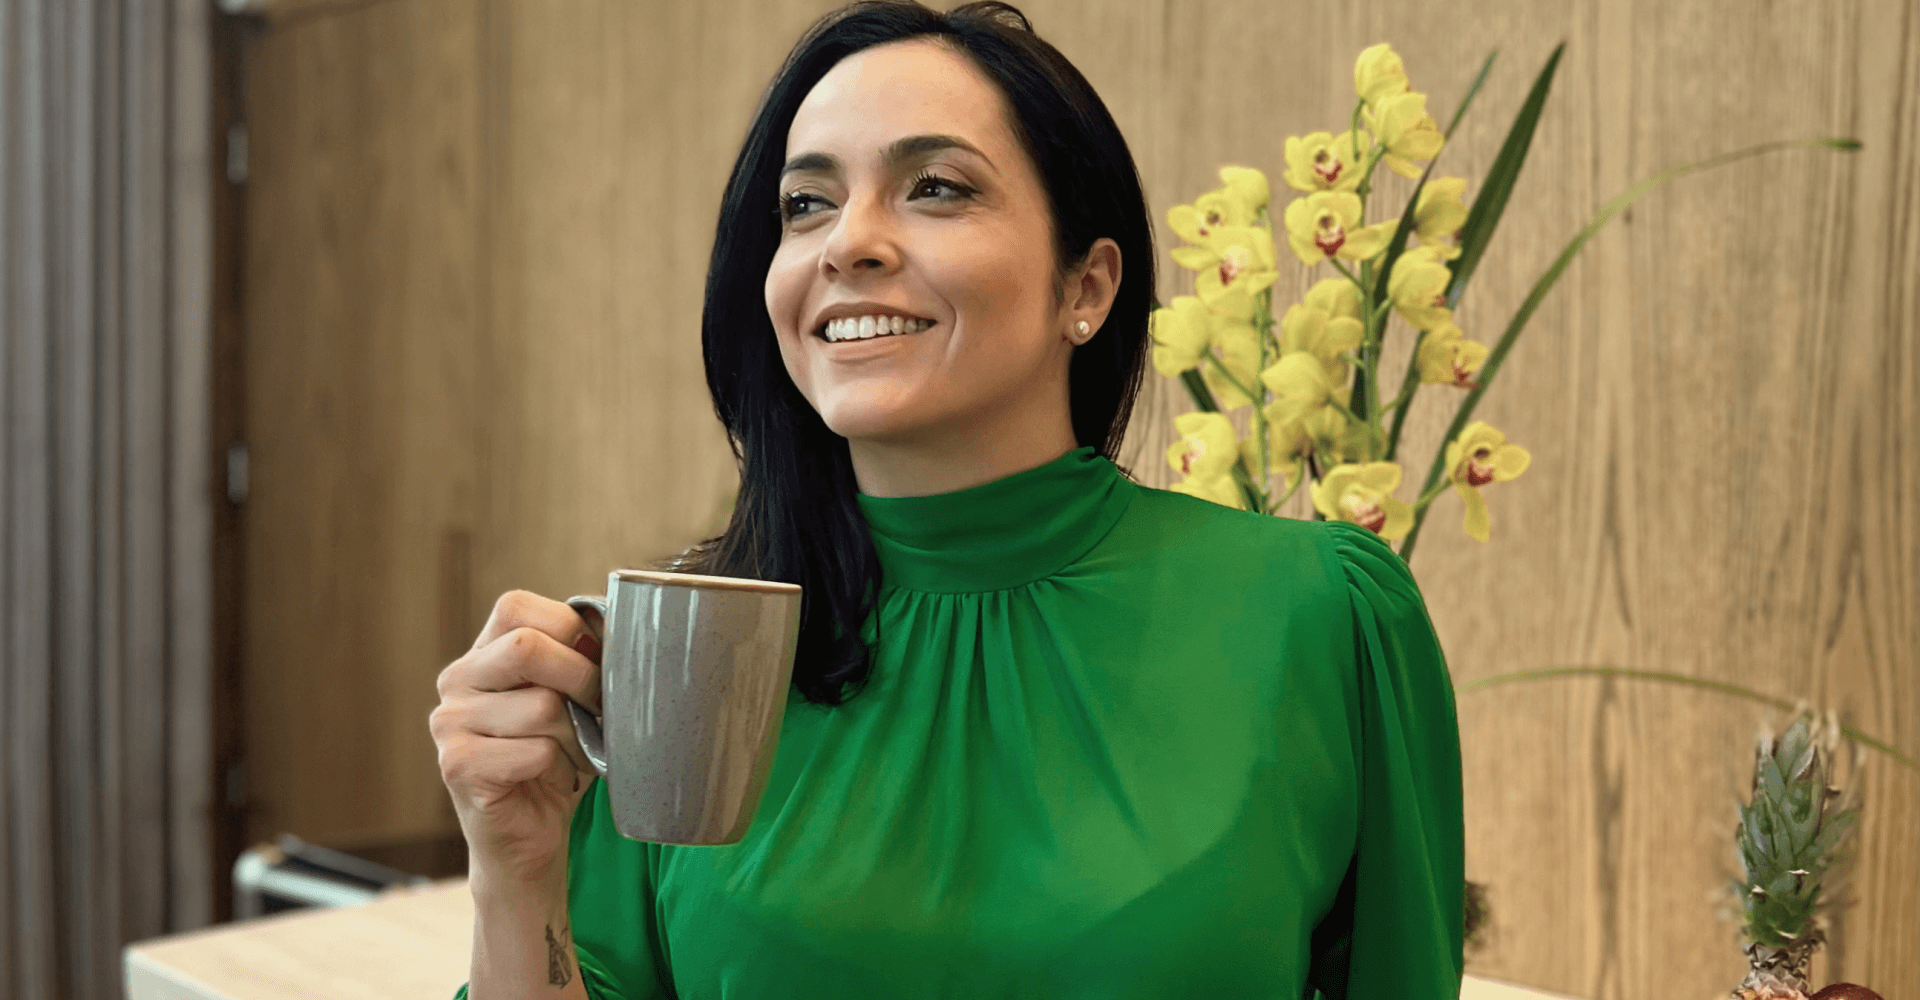
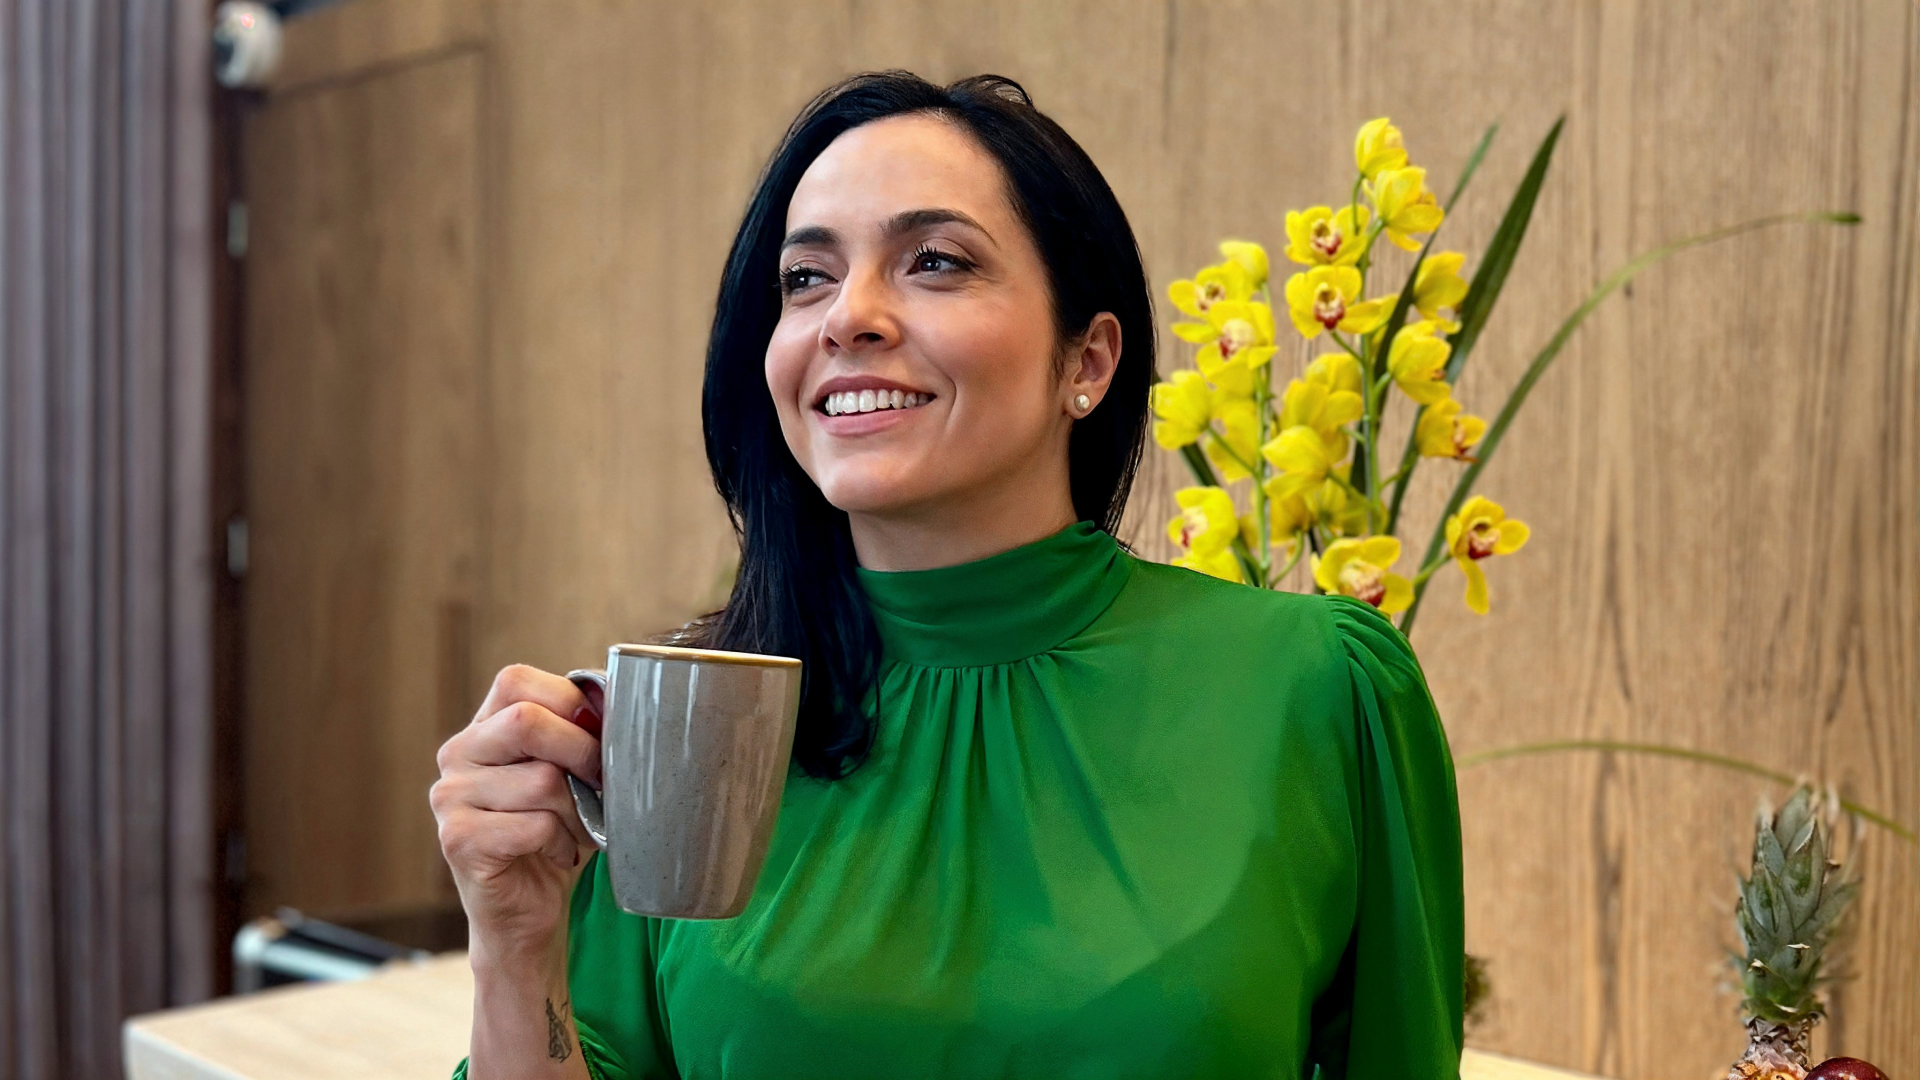
ajusts final

diff --git a/src/components/living-room/LivingRoom.tsx b/src/components/living-room/LivingRoom.tsx
@@ -1,10 +1,11 @@
 import gsap from 'gsap'
 import ScrollTrigger from 'gsap/ScrollTrigger'
 import CarouselTv from '../carousel-tv/CarouselTv'
-import { PngCellphone, PngRack, PngShadowLiving, PngTv } from '../../assets/png'
+import { PngCellphone, PngRack, PngShadowLiving, PngTedX1, PngTedX2, PngTedX3, PngTv } from '../../assets/png'
 import Button from '../button/Button'
 import './LivingRoom.css'
 import { useGSAP } from '@gsap/react'
+import { Link } from 'react-router-dom'
 
 gsap.registerPlugin(ScrollTrigger)
 
@@ -52,6 +53,29 @@ const LivingRoom = () => {
         })
     }, [])
 
+    //mobile
+    useGSAP(() => {
+        const mm = gsap.matchMedia();
+        mm.add('screen and (max-width: 768px)', () => {
+            const tl = gsap.timeline({
+                scrollTrigger: {
+                    trigger: '.living-room-container-second',
+                    start: '20% bottom',
+                    end: 'bottom bottom',
+                    scrub: 1,
+                }
+            })
+            tl.from('.tv-mobile', {
+                y: '50%',
+                duration: 1,
+                opacity: 0,
+                delay: .6,
+                stagger: .3,
+            })
+        })
+    }
+    )
+
     return (
         <>
             <div id='living-room-first' className='living-room snap-item'>
@@ -83,7 +107,20 @@ const LivingRoom = () => {
                     </div>
                 </div>
             </div >
-            <div id='living-room-second' className='living-room-container-second snap-item' />
+            <div id='living-room-second' className='living-room-container-second snap-item'>
+                <div className='tv-col-mobile'>
+                    <Link target='_blank' to='https://www.youtube.com/watch?v=UJeSe18J1m0&ab_channel=TEDxTalks'>
+                        <img className='tv-mobile' src={PngTedX1} />
+                    </Link>
+                    <Link target='_blank' to='https://www.youtube.com/watch?v=ZucqBl_CFvo&ab_channel=TEDxTalks'>
+                        <img className='tv-mobile' src={PngTedX2} />
+                    </Link>
+                    <Link target='_blank' to='https://www.youtube.com/watch?v=58GGgSsNOKU&t=166s&ab_channel=TEDxTalks'>
+                        <img className='tv-mobile' src={PngTedX3} />
+                    </Link>
+                </div>
+                <img className='rack-mobile' src={PngRack} />
+            </div >
         </>
 
     )

diff --git a/src/components/galery/GaleryTestimonal.tsx b/src/components/galery/GaleryTestimonal.tsx
@@ -12,8 +12,7 @@ const GaleryTestimonal = () => {
                     description='Lorem ipsum dolor sit amet, consectetur adipiscing elit. 
                                 Phasellus iaculis pharetra erat, non suscipit ante. Vestibulum gravida 
                                 finibus dapibus. Etiam congue augue non rutrum sagittis. Aliquam a ornare 
-                                augue, in scelerisque magna. Sed vitae nisi et ligula semper ullamcorper 
-                                tempus efficitur magna. Phasellus justo lectus, tempus'
+                                augue, in scelerisque magna.'
                 />
                 <CardTestimonal
                     image={PngIzaAbout}
@@ -21,8 +20,7 @@ const GaleryTestimonal = () => {
                     description='Lorem ipsum dolor sit amet, consectetur adipiscing elit. 
                                 Phasellus iaculis pharetra erat, non suscipit ante. Vestibulum gravida 
                                 finibus dapibus. Etiam congue augue non rutrum sagittis. Aliquam a ornare 
-                                augue, in scelerisque magna. Sed vitae nisi et ligula semper ullamcorper 
-                                tempus efficitur magna. Phasellus justo lectus, tempus'
+                                augue, in scelerisque magna.'
                 />
                 <CardTestimonal
                     image={PngIzaAbout}
@@ -30,8 +28,7 @@ const GaleryTestimonal = () => {
                     description='Lorem ipsum dolor sit amet, consectetur adipiscing elit. 
                                 Phasellus iaculis pharetra erat, non suscipit ante. Vestibulum gravida 
                                 finibus dapibus. Etiam congue augue non rutrum sagittis. Aliquam a ornare 
-                                augue, in scelerisque magna. Sed vitae nisi et ligula semper ullamcorper 
-                                tempus efficitur magna. Phasellus justo lectus, tempus'
+                                augue, in scelerisque.'
                 />
             </Galery>
         </>

diff --git a/src/components/bottom-bar/BottomBar.tsx b/src/components/bottom-bar/BottomBar.tsx
@@ -24,14 +24,17 @@ const BigNumber = ({ number, description }: BigNumberProps) => {
     )
 }
 
-export const SocialMedia = () =>
-    <div className='social-container'>
-        <Link target='_blank' to='https://www.instagram.com/izabellacamargoreal'><img src={SvgInstagram} alt='instagram' /></Link>
-        <Link target='_blank' to='https://www.youtube.com/izabellacamargoreal'><img src={SvgYoutube} alt='youtube' /></Link>
-        <Link target='_blank' to='https://podcasters.spotify.com/pod/show/izabella-camargo3'><img src={SvgSpotify} alt='spotify' /></Link>
-        <Link target='_blank' to='https://wa.me/5511974987070'><img src={SvgWhats} alt='whats' /></Link>
-        <Link target='_blank' to='https://www.linkedin.com/in/izabellacamargoreal'><img src={SvgLinkedin} alt='linkedin' /></Link>
-    </div>
+export const SocialMedia = () => {
+    return (
+        <div className='social-container'>
+            <Link className='social-item' target='_blank' to='https://www.instagram.com/izabellacamargoreal'><img src={SvgInstagram} alt='instagram' /></Link>
+            <Link className='social-item' target='_blank' to='https://www.youtube.com/izabellacamargoreal'><img src={SvgYoutube} alt='youtube' /></Link>
+            <Link className='social-item' target='_blank' to='https://podcasters.spotify.com/pod/show/izabella-camargo3'><img src={SvgSpotify} alt='spotify' /></Link>
+            <Link className='social-item' target='_blank' to='https://wa.me/5511974987070'><img src={SvgWhats} alt='whats' /></Link>
+            <Link className='social-item' target='_blank' to='https://www.linkedin.com/in/izabellacamargoreal'><img src={SvgLinkedin} alt='linkedin' /></Link>
+        </div>
+    )
+}
 
 type BottomBarProps = {
     internal?: boolean;

diff --git a/src/components/menu/Menu.tsx b/src/components/menu/Menu.tsx
@@ -7,19 +7,21 @@ import { useEffect } from 'react';
 type MenuProps = {
     isShown: boolean
     whichIsActive?: string
+    btnClick?: () => void
 }
 
 type MenuBtnProps = {
     text: string,
     link?: string,
     isActive?: boolean
+    onClick?: () => void
 }
 
-const MenuBtn = ({ text, link = '', isActive }: MenuBtnProps) => {
+const MenuBtn = ({ text, link = '', isActive, onClick }: MenuBtnProps) => {
 
 
     return (
-        <Link to={link}>
+        <Link to={link} onClick={onClick}>
             <h2
                 className={isActive ? 'menu-btn active' : 'menu-btn inactive'}
             >
@@ -29,7 +31,7 @@ const MenuBtn = ({ text, link = '', isActive }: MenuBtnProps) => {
     )
 }
 
-const Menu = ({ isShown, whichIsActive }: MenuProps) => {
+const Menu = ({ isShown, whichIsActive, btnClick }: MenuProps) => {
 
     const menuArray = [
         { text: 'Home', link: '/', id: 'home' },
@@ -80,6 +82,7 @@ const Menu = ({ isShown, whichIsActive }: MenuProps) => {
                 <div className='menu-content'>
                     {menuArray.map((item, index) =>
                         <MenuBtn
+                            onClick={btnClick}
                             key={index}
                             isActive={item.id === whichIsActive}
                             link={item.link}

diff --git a/src/components/living-room/LivingRoom.css b/src/components/living-room/LivingRoom.css
@@ -100,7 +100,7 @@
     z-index: 9999;
     pointer-events: none;
     overflow: hidden;
-/* 
+    /* 
     img {
         transform: scale(1.2);
         width: 100%;
@@ -123,6 +123,14 @@
         width: 100%;
         height: 100%;
     }
+}
+
+.tv-col-mobile {
+    display: none;
+}
+
+.living-room-container-second .rack-mobile {
+    display: none;
 }
 
 @media screen and (max-width: 768px) {
@@ -208,6 +216,44 @@
     }
 
     .living-room-container-second {
-        display: none;
+        position: relative;
+        overflow: hidden;
     }
+
+    .living-room-container-second .rack-mobile {
+        bottom: 0;
+        left: 50%;
+        height: 30vh;
+        transform: translateX(-50%);
+        position: absolute;
+        display: block;
+    }
+
+    .living-room-container-second .tv-col-mobile {
+        display: flex;
+        flex-direction: column;
+        gap: .5rem;
+        padding: 2.25rem 1.5rem;
+    }
+
+    .tv-col-mobile a {
+        transition: all .1s;
+        user-select: none;
+    }
+
+    .tv-col-mobile a .tv-mobile {
+        user-select: none;
+    }
+
+
+    .tv-col-mobile a:active {
+        opacity: .8;
+        transform: scale(.95);
+    }
+
+    .living-room-container-second {
+        display: flex;
+        justify-content: center;
+    }
+
 }

diff --git a/src/components/header/Header.tsx b/src/components/header/Header.tsx
@@ -10,11 +10,12 @@ type headerProps = {
     menuIsShown: boolean
     toggleMenu: () => void
     hasDarkBg?: boolean
+    logoClick?: () => void
 }
 
 gsap.registerPlugin(ScrollToPlugin)
 
-const Header = ({ menuIsShown, hasDarkBg = true, toggleMenu }: headerProps) => {
+const Header = ({ menuIsShown, hasDarkBg = true, toggleMenu, logoClick }: headerProps) => {
 
     useGSAP(() => {
         gsap.from('.header', {
@@ -25,19 +26,19 @@ const Header = ({ menuIsShown, hasDarkBg = true, toggleMenu }: headerProps) => {
         })
     }, [])
 
-    const goToTop = () => {
+    const handleLogoClick = () => {
         gsap.to(window, {
             duration: 1.8,
             scrollTo: { y: 0, autoKill: false },
             ease: 'power2.inOut',
         })
+        if (logoClick) logoClick()
     }
-
 
     return (
         <div className='header-container'>
             <header className="header">
-                <Link onClick={goToTop} to='/' className='logo-link'>
+                <Link onClick={handleLogoClick} to='/' className='logo-link'>
                     <LogoHorizontal onlyLogo={!hasDarkBg}/>
                 </Link>
                 <MenuIcon contrastBackground={!hasDarkBg} menuIsShown={menuIsShown} toggleMenu={toggleMenu} />

diff --git a/src/components/hero/Hero.tsx b/src/components/hero/Hero.tsx
@@ -1,7 +1,7 @@
 import './Hero.css';
 import BottomBar from '../bottom-bar/BottomBar';
 import { SvgLogo, SvgArrow } from '../../assets/svg';
-import { PngIzaHero, PngIzaOverHero } from '../../assets/png';
+import { JPGIzaHero, PngIzaOverHero } from '../../assets/png';
 import gsap from 'gsap';
 import { useRef, useState } from 'react';
 import { useGSAP } from '@gsap/react';
@@ -15,7 +15,7 @@ type heroProps = {
     mouseMove: {
         x: number
         y: number
-    }
+    },
 }
 
 const Hero = ({ mouseMove }: heroProps) => {
@@ -119,7 +119,7 @@ const Hero = ({ mouseMove }: heroProps) => {
                 <img src={PngIzaHeroMobile} className='img-mobile' />
                 <div className='hero-img'>
                     <img src={PngIzaOverHero} className='img-over' />
-                    <img src={PngIzaHero} className='img-bg' />
+                    <img src={JPGIzaHero} className='img-bg'/>
                 </div>
             </div>
         </>

diff --git a/src/assets/png/index.ts b/src/assets/png/index.ts
@@ -1,4 +1,3 @@
-import PngHero from './hero.png';
 import PngRodaVida from './roda-vida.png';
 import PngIzaCard from './img-iza-card.png';
 import PngBook from './book-img.png'
@@ -38,8 +37,16 @@ import PngIzaHeroMobile from './iza-hero-mobile.png';
 import PngTv1 from './tv-1.png';
 import PngTv2 from './tv-2.png';
 import PngTv3 from './tv-3.png';
+import PngTedX1 from './ted-1.png';
+import PngTedX2 from './ted-2.png';
+import PngTedX3 from './ted-3.png';
+import JPGIzaHero from './iza-hero.jpg';
 
 export {
+    JPGIzaHero,
+    PngTedX3,
+    PngTedX2,
+    PngTedX1,
     PngTv3,
     PngTv2,
     PngTv1,
@@ -64,7 +71,6 @@ export {
     PngTv,
     PngCellphone,
     PngRack,
-    PngHero,
     PngRodaVida,
     PngIzaCard,
     PngBook,

diff --git a/src/components/galery/GaleryClients.tsx b/src/components/galery/GaleryClients.tsx
@@ -16,8 +16,14 @@ const GaleryClients = () => {
         );
     }
 
+    const getHeight = () => {
+        const width = window.innerWidth;
+        if (width <= 768) return '90vh';
+        return '70vh';
+    }
+
     return (
-        <Galery height='60vh' backgroundColor='var(--c-white)' titleColor='var(--c-dark)' title='Clientes'>
+        <Galery height={getHeight()} backgroundColor='var(--c-white)' titleColor='var(--c-dark)' title='Clientes'>
             {
                 newClientsArray.map((item, index) => (
                     <div key={index} className='galery-row'>

diff --git a/src/components/menu/MenuWrapper.tsx b/src/components/menu/MenuWrapper.tsx
@@ -31,8 +31,8 @@ const MenuWrapper = ({ whichIsActive }: MenuWrapperProps) => {
 
     return (
         <>
-            <Header hasDarkBg={hasDarkBg} menuIsShown={showMenu} toggleMenu={() => setShowMenu(!showMenu)} />
-            <Menu whichIsActive={whichIsActive} isShown={showMenu} />
+            <Header hasDarkBg={hasDarkBg} logoClick={()=> setShowMenu(false)} menuIsShown={showMenu} toggleMenu={() => setShowMenu(!showMenu)} />
+            <Menu whichIsActive={whichIsActive} isShown={showMenu} btnClick={() => setShowMenu(false)}/>
         </>
     )
 }

diff --git a/src/components/store/Store.css b/src/components/store/Store.css
@@ -8,7 +8,7 @@
     justify-content: center;
 }
 
-.store-container img{
+.store-container img {
     pointer-events: none;
 }
 
@@ -99,7 +99,12 @@
 
     .store-container .content-wrapper-store {
         width: 100%;
+        gap: 2.5rem;
         padding: 4rem 2rem;
+
+        p {
+            display: none;
+        }
     }
 
     .img-plant {
@@ -114,7 +119,7 @@
         right: -10rem;
         z-index: 1;
     }
-    
+
     .img-t-back {
         object-fit: cover;
         width: 100vw;

diff --git a/src/components/bottom-bar/BottomBar.css b/src/components/bottom-bar/BottomBar.css
@@ -54,6 +54,15 @@
     height: 2.5rem;
 }
 
+.social-container .social-item {
+    transition: all 0.2s ease-in-out;
+}
+
+.social-container .social-item:hover {
+    transform: translateY(-.5rem);
+    opacity: 0.6;
+}
+
 .bottom-bar .title-page-bar {
     display: flex;
     color: var(--c-white, #FFF);
